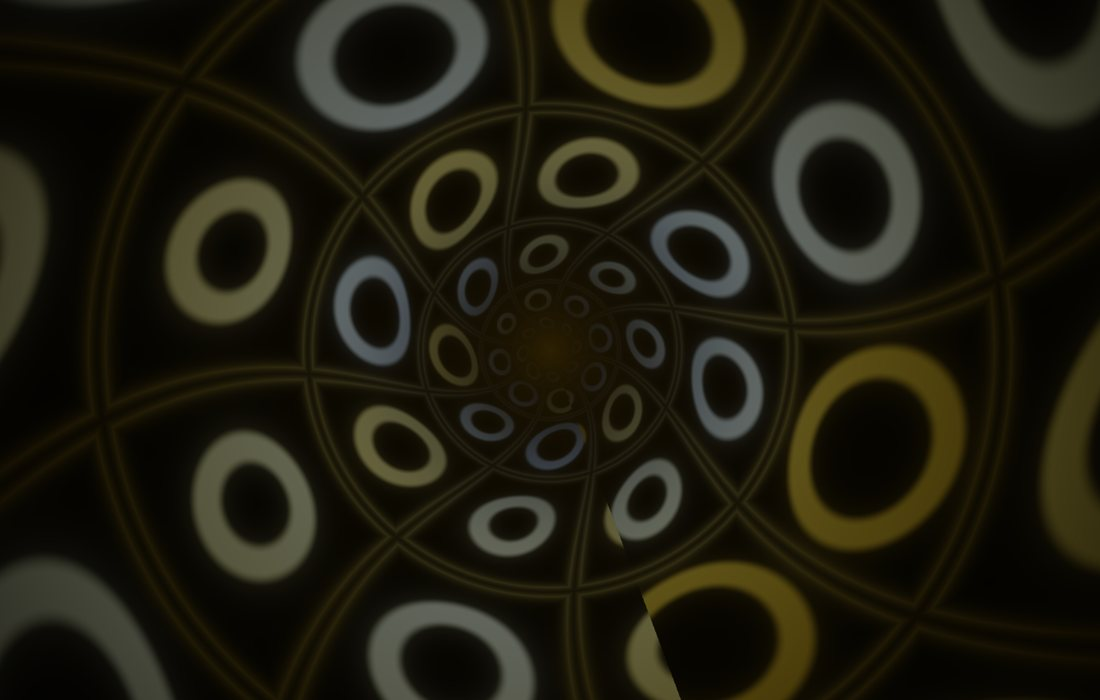
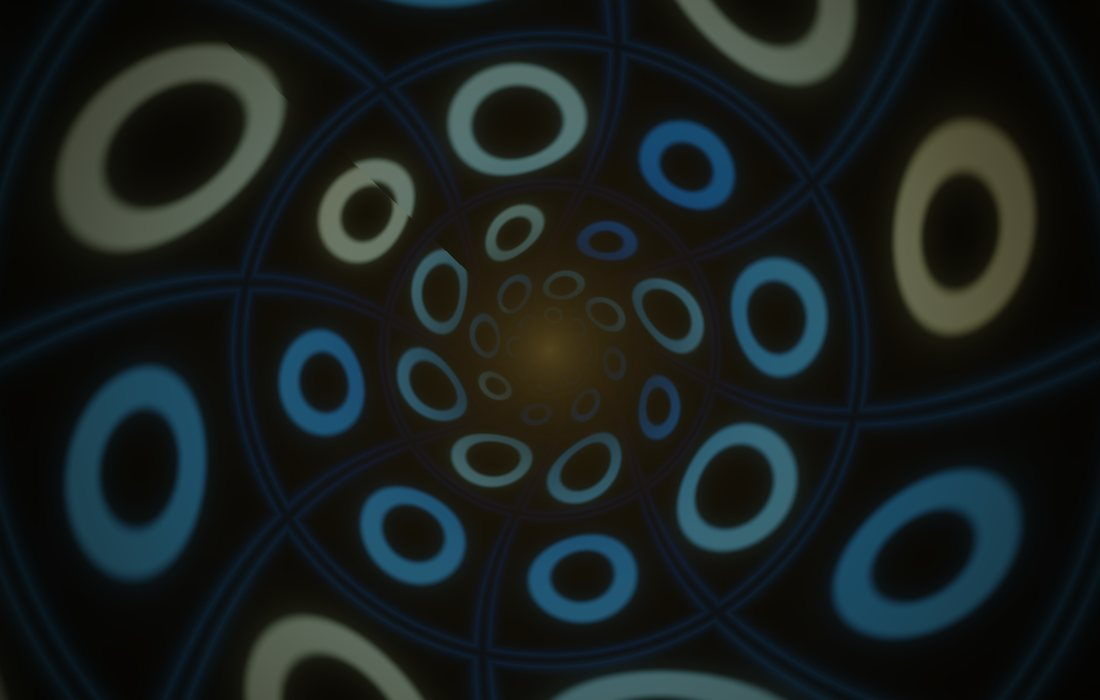
docs: fresh screenshots, the fifteen scenes, call softening

diff --git a/README.md b/README.md
@@ -42,10 +42,13 @@ hours of unobtrusive sound alongside your other apps.
 - **Honest about binaural beats.** The Learn window explains what they
   are, what the research does and doesn't show, and where folklore like
   432 Hz comes from, with sources you can check.
-- **Optional visuals.** Ten slow scenes in their own window, a breath
-  pacer, brightness that never changes faster than three times a second,
-  and a Calm mode on by default. With no visuals window open, nothing
-  renders.
+- **Optional visuals.** Fifteen slow scenes in their own window, six
+  palettes, a breath pacer, brightness that never changes faster than
+  three times a second, and a Calm mode on by default. With no visuals
+  window open, nothing renders.
+- **Kind to work.** Focus presets are steady and barely use the CPU (about
+  1% of one core for Brown Noise Desk). Turn on "Soften during calls" and
+  the sound dips whenever an app is using a microphone.
 - **Private by construction.** No accounts, no network, no analytics.
   Settings, presets and an optional session log (date, length, preset; no
   streaks) stay in one file on your Mac.
@@ -57,7 +60,7 @@ hours of unobtrusive sound alongside your other apps.
 </p>
 
 <p align="center">
-  <img src="docs/screenshots/visuals.jpg" width="820" alt="The Tunnel, one of the visuals scenes: soft rings receding into a dark centre">
+  <img src="docs/screenshots/scenes.jpg" width="820" alt="The fifteen visuals scenes, from Chrysanthemum and The Tunnel to Metatron, the Harmonograph, a Poincaré disk and Ember">
 </p>
 
 <p align="center">
